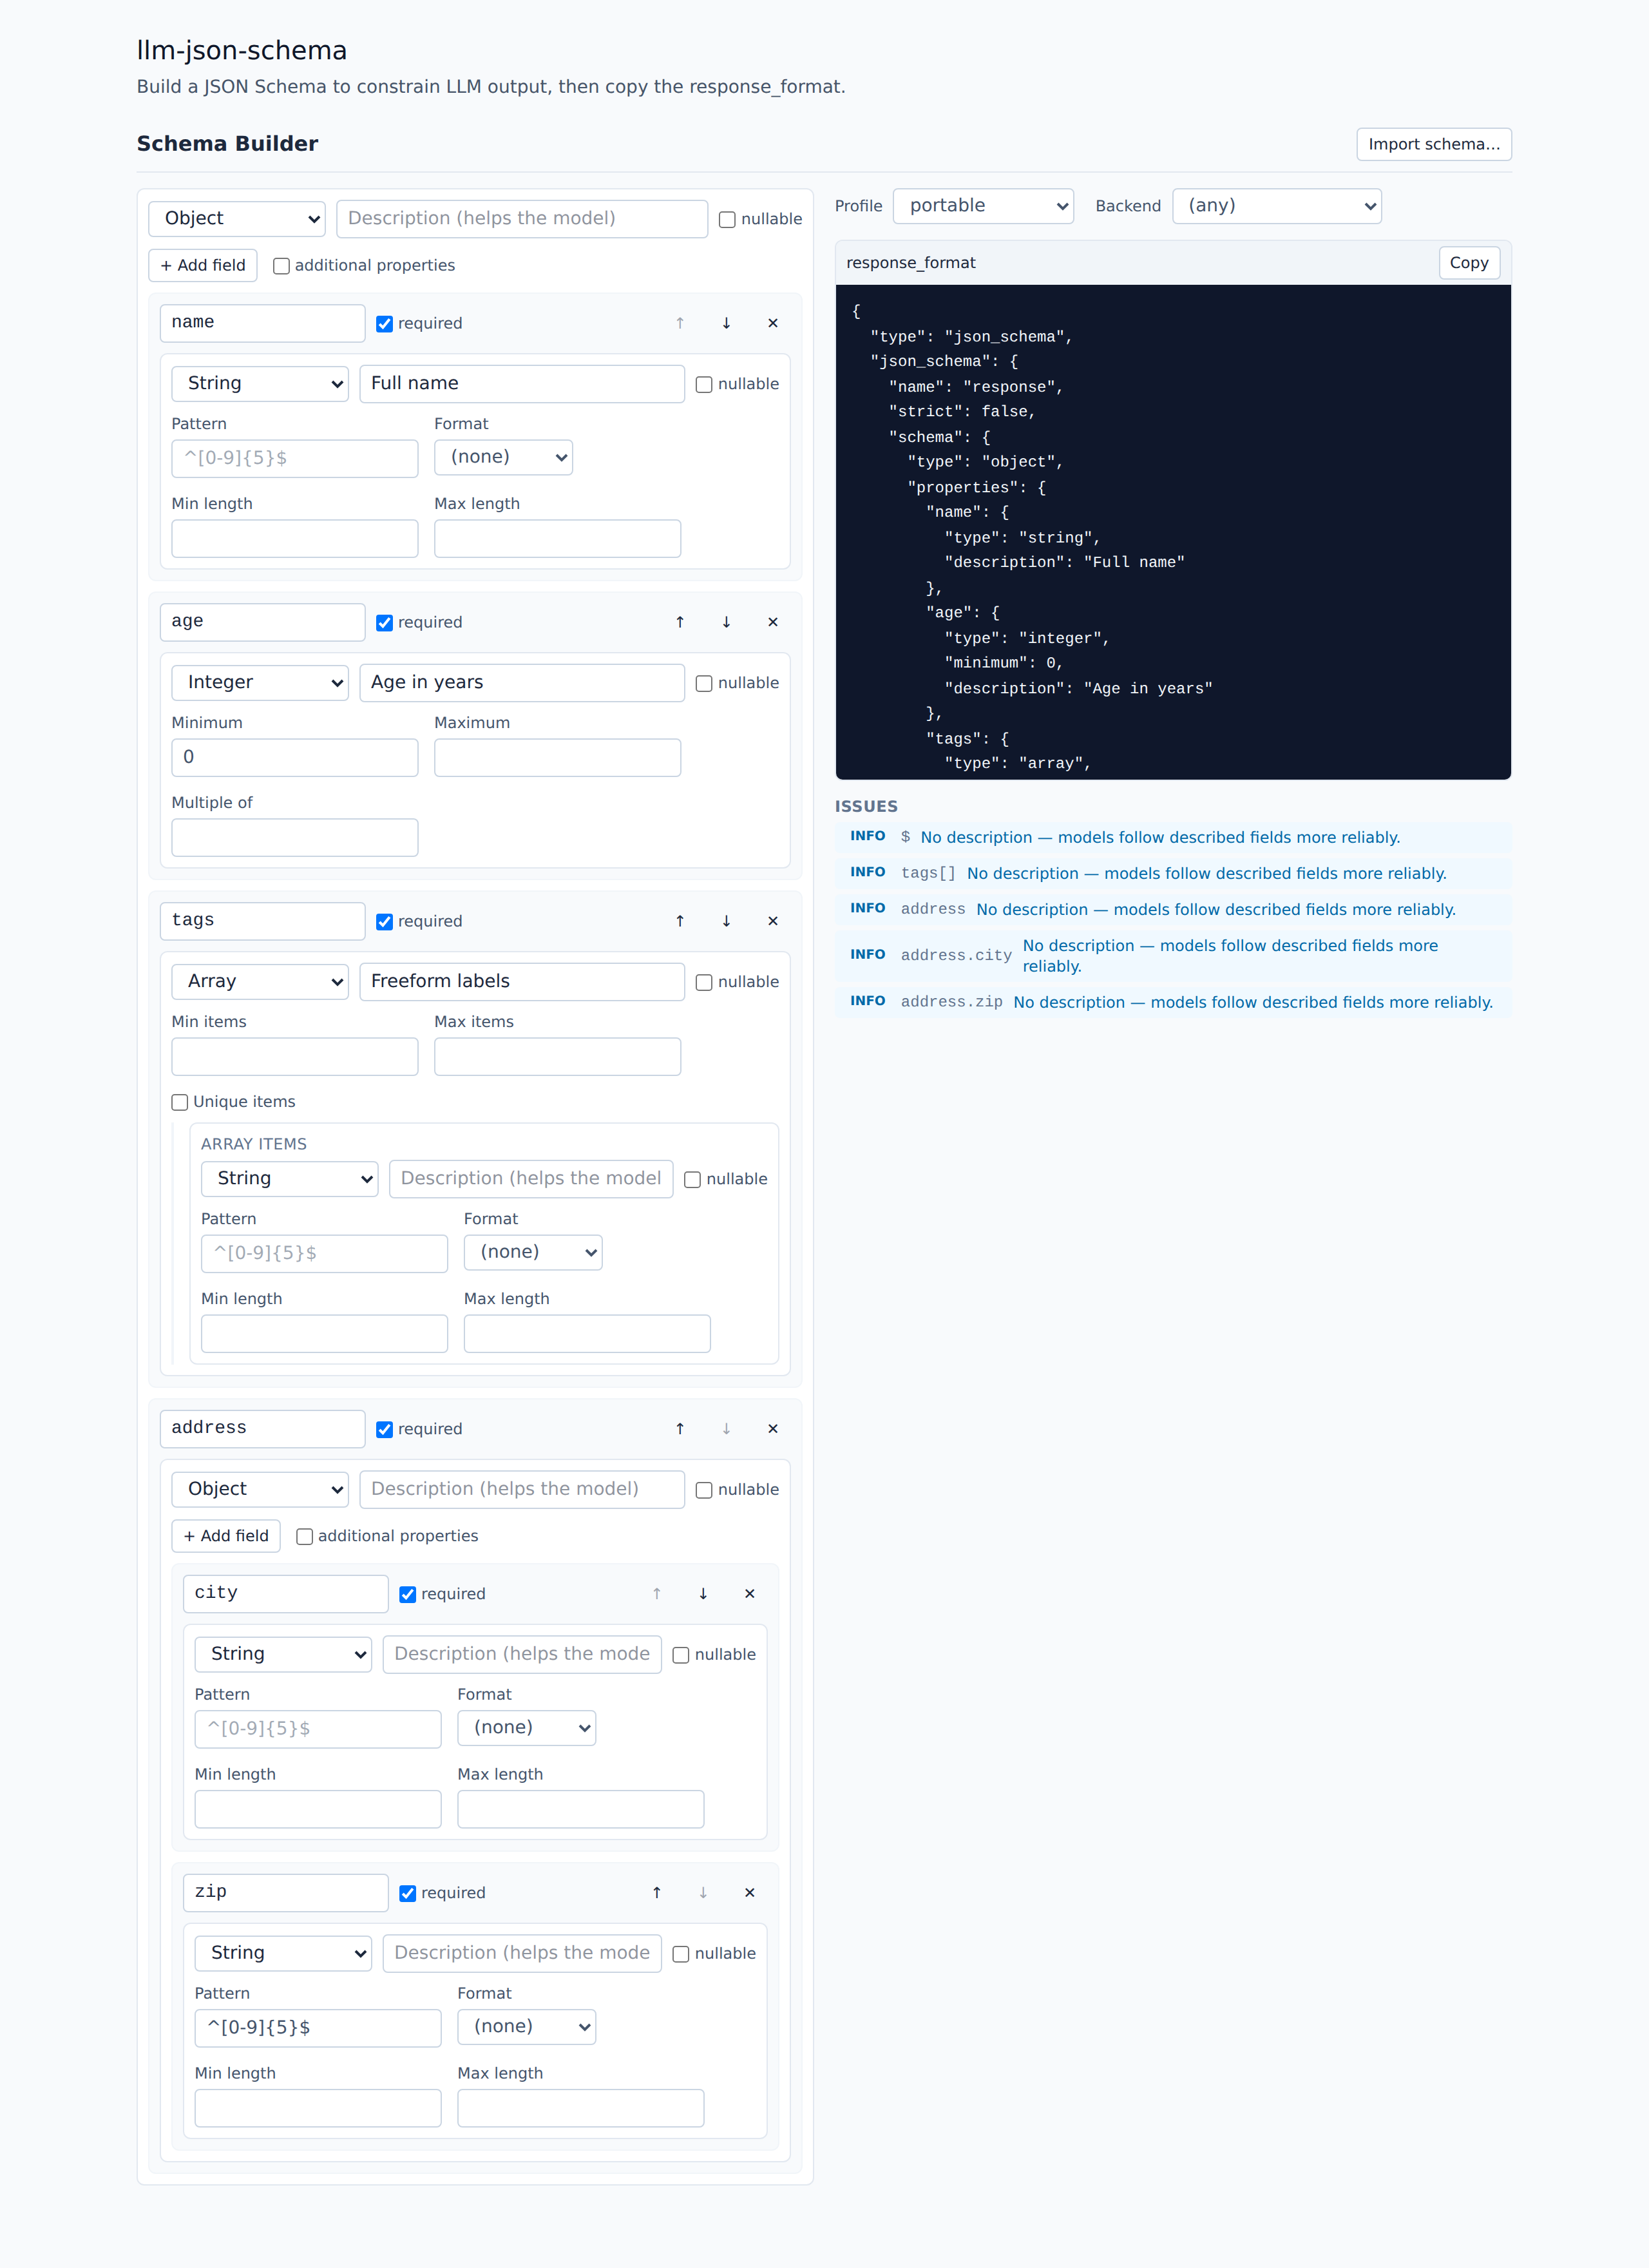
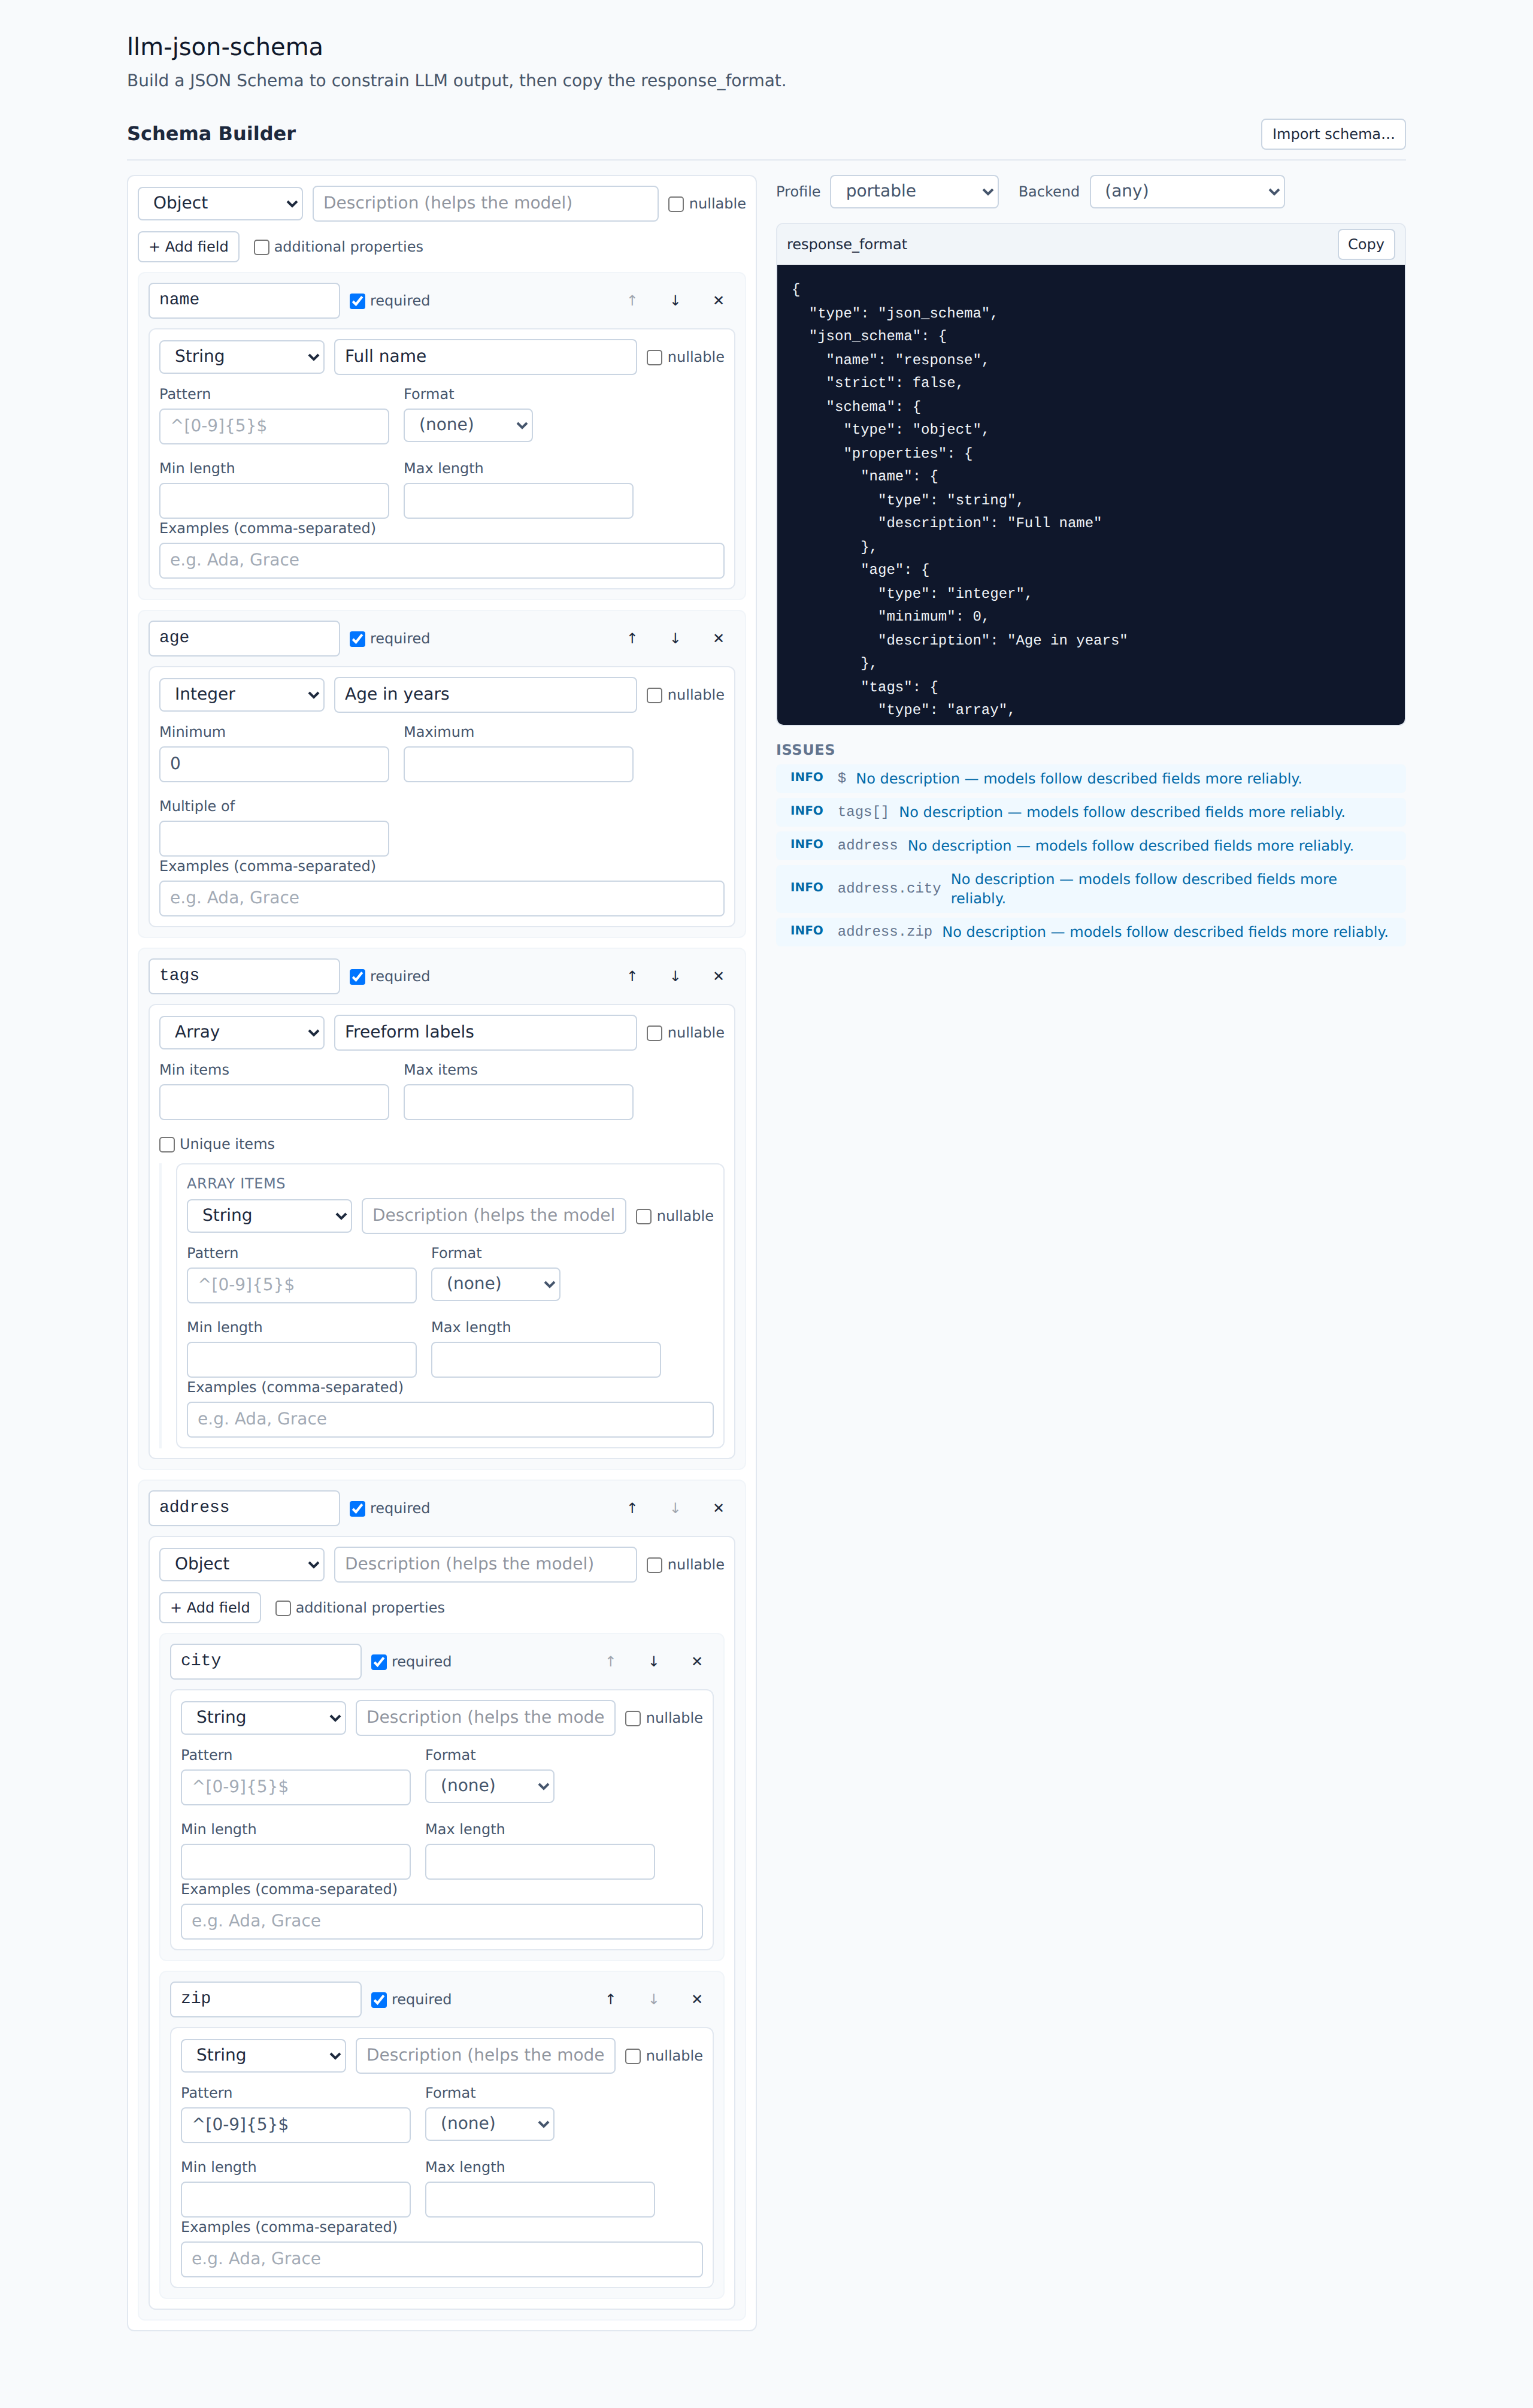
Add example values for schema components
Thread an `examples` annotation (JSON Schema 2020-12) through the pipeline:

- model: `examples?: JsonPrimitive[]` on NodeBase; JsonSchema gains `examples`.
- compile: emits `examples` when non-empty.
- parse: reads `examples` (recognized keyword) back into the model.
- React: `setExamples` reducer action + a kind-aware "Examples
  (comma-separated)" input on scalar nodes (string/number/integer/boolean/enum).
- tests: vitest for compile/omit/round-trip; an e2e check that typing an
  example emits it into the live schema. Screenshot + README updated.

Claude-Session: https://claude.ai/code/session_01Utt2MfTqUzCxAnVSBrpiXM

diff --git a/src/react/components/NodeEditor.tsx b/src/react/components/NodeEditor.tsx
@@ -1,9 +1,38 @@
 import type { Dispatch } from 'react';
-import type { NodeKind, SchemaNode } from '../../core';
+import type { JsonPrimitive, NodeKind, SchemaNode } from '../../core';
 import type { Action } from '../state';
 import { ConstraintsPanel } from './ConstraintsPanel';
 import { ObjectFields } from './ObjectFields';
 import { TypePicker } from './TypePicker';
+
+// Examples are most useful on scalar leaves; object/array/union examples would
+// be whole structures, which a comma-separated field can't express.
+const EXAMPLE_KINDS: ReadonlySet<NodeKind> = new Set<NodeKind>([
+  'string',
+  'number',
+  'integer',
+  'boolean',
+  'enum',
+]);
+
+/** Parse a comma-separated examples field, coercing to the node's value type. */
+function parseExamples(raw: string, kind: NodeKind): JsonPrimitive[] {
+  return raw
+    .split(',')
+    .map((s) => s.trim())
+    .filter((s) => s.length > 0)
+    .map((s): JsonPrimitive => {
+      if (kind === 'number' || kind === 'integer') {
+        const n = Number(s);
+        return Number.isNaN(n) ? s : n;
+      }
+      if (kind === 'boolean') {
+        if (s === 'true') return true;
+        if (s === 'false') return false;
+      }
+      return s;
+    });
+}
 
 /**
  * Recursive editor for a single node. Renders shared metadata + a type picker +
@@ -52,6 +81,24 @@ export function NodeEditor({
       </div>
 
       <ConstraintsPanel node={node} dispatch={dispatch} />
+
+      {EXAMPLE_KINDS.has(node.kind) && (
+        <label className="lss-field">
+          <span>Examples (comma-separated)</span>
+          <input
+            className="lss-input"
+            placeholder="e.g. Ada, Grace"
+            value={(node.examples ?? []).map((v) => String(v)).join(', ')}
+            onChange={(e) =>
+              dispatch({
+                type: 'setExamples',
+                id: node.id,
+                values: parseExamples(e.target.value, node.kind),
+              })
+            }
+          />
+        </label>
+      )}
 
       {node.kind === 'object' && <ObjectFields node={node} dispatch={dispatch} depth={depth} />}
 

diff --git a/tests/examples.test.ts b/tests/examples.test.ts
@@ -1,0 +1,22 @@
+import { describe, expect, it } from 'vitest';
+import { compile, parse, stringNode } from '../src/core';
+import { stripIds } from './helpers';
+
+describe('examples', () => {
+  it('compiles node examples into the JSON Schema `examples` annotation', () => {
+    const { schema } = compile(stringNode({ examples: ['ada', 'grace'] }));
+    expect(schema.examples).toEqual(['ada', 'grace']);
+  });
+
+  it('omits examples when empty', () => {
+    const { schema } = compile(stringNode({ examples: [] }));
+    expect(schema.examples).toBeUndefined();
+  });
+
+  it('round-trips examples through parse', () => {
+    const model = stringNode({ description: 'name', examples: ['ada'] });
+    const { schema } = compile(model, { profile: 'portable' });
+    const { node } = parse(schema);
+    expect(stripIds(node)).toEqual(stripIds(model));
+  });
+});

diff --git a/src/core/parse.ts b/src/core/parse.ts
@@ -7,7 +7,7 @@
  * than silently drop it.
  */
 
-import type { JsonSchema, JsonSchemaType } from './json-schema';
+import type { JsonPrimitive, JsonSchema, JsonSchemaType } from './json-schema';
 import type { ObjectProperty, SchemaNode, StringFormat } from './model';
 import {
   arrayNode,
@@ -34,6 +34,10 @@ interface ParseCtx {
   refStack: Set<string>;
 }
 
+/** Shared node metadata pulled off a schema and threaded into the factories. */
+type Meta = { title?: string; description?: string; examples?: JsonPrimitive[] };
+type Base = Meta & { nullable?: boolean };
+
 /** Keywords we knowingly map; everything else gets reported as unsupported. */
 const KNOWN_KEYWORDS = new Set([
   '$schema',
@@ -42,6 +46,7 @@ const KNOWN_KEYWORDS = new Set([
   'type',
   'title',
   'description',
+  'examples',
   'anyOf',
   'enum',
   'const',
@@ -129,7 +134,11 @@ function parseNode(schema: JsonSchema, ctx: ParseCtx): SchemaNode {
 
   reportUnknownKeywords(schema, ctx);
 
-  const meta = { title: schema.title, description: schema.description };
+  const meta = {
+    title: schema.title,
+    description: schema.description,
+    examples: schema.examples && schema.examples.length > 0 ? schema.examples : undefined,
+  };
 
   // anyOf -> union (unless it is purely a "T | null" widening)
   if (schema.anyOf) {
@@ -170,7 +179,7 @@ function parseNode(schema: JsonSchema, ctx: ParseCtx): SchemaNode {
 function parseAnyOf(
   schema: JsonSchema,
   ctx: ParseCtx,
-  meta: { title?: string; description?: string },
+  meta: Meta,
 ): SchemaNode {
   const branches = schema.anyOf ?? [];
   const nullBranches = branches.filter((b) => b.type === 'null');
@@ -191,7 +200,7 @@ function parseAnyOf(
 
 function parseString(
   schema: JsonSchema,
-  base: { title?: string; description?: string; nullable?: boolean },
+  base: Base,
 ) {
   const format =
     schema.format && STRING_FORMATS.has(schema.format)
@@ -231,7 +240,7 @@ function numberEnum(schema: JsonSchema): number[] | undefined {
 function parseObject(
   schema: JsonSchema,
   ctx: ParseCtx,
-  base: { title?: string; description?: string; nullable?: boolean },
+  base: Base,
 ) {
   const required = new Set(schema.required ?? []);
   // Null-widening is always read as `nullable`; `required` membership is read as
@@ -256,7 +265,7 @@ function parseObject(
 function parseArray(
   schema: JsonSchema,
   ctx: ParseCtx,
-  base: { title?: string; description?: string; nullable?: boolean },
+  base: Base,
 ) {
   const items = schema.items ? parseNode(schema.items, ctx) : stringNode();
   if (!schema.items) ctx.unsupported.add('array without items');

diff --git a/e2e/demo.spec.ts b/e2e/demo.spec.ts
@@ -26,6 +26,21 @@ test.describe('demo playground', () => {
     await expect(output).toContainText('"field"');
   });
 
+  test('adding an example value emits it into the schema', async ({ page }) => {
+    const output = page.getByTestId('output-code');
+    await expect(output).not.toContainText('"examples"');
+
+    // The "name" string field is the first node with an examples input.
+    await page
+      .locator('.lss-editor-pane')
+      .getByPlaceholder('e.g. Ada, Grace')
+      .first()
+      .fill('Ada, Grace');
+
+    await expect(output).toContainText('"examples"');
+    await expect(output).toContainText('"Ada"');
+  });
+
   test('switching to the strict profile sets strict:true', async ({ page }) => {
     const output = page.getByTestId('output-code');
     await expect(output).toContainText('"strict": false');

diff --git a/src/react/state.ts b/src/react/state.ts
@@ -5,7 +5,7 @@
  * derives the JSON Schema and lint issues from the model with useMemo.
  */
 
-import type { NodeKind, ObjectNode, SchemaNode, StringFormat } from '../core';
+import type { JsonPrimitive, NodeKind, ObjectNode, SchemaNode, StringFormat } from '../core';
 import {
   arrayNode,
   booleanNode,
@@ -46,6 +46,7 @@ export type Action =
   | { type: 'patchNode'; id: string; patch: NodePatch }
   | { type: 'changeKind'; id: string; kind: NodeKind }
   | { type: 'setEnumValues'; id: string; values: (string | number)[] }
+  | { type: 'setExamples'; id: string; values: JsonPrimitive[] }
   | { type: 'setConstValue'; id: string; value: string | number | boolean | null }
   | { type: 'addProperty'; objectId: string }
   | { type: 'removeProperty'; objectId: string; index: number }
@@ -70,6 +71,12 @@ export function reducer(state: SchemaNode, action: Action): SchemaNode {
       return mapNode(state, action.id, (node) =>
         node.kind === 'enum' ? { ...node, values: action.values } : node,
       );
+
+    case 'setExamples':
+      return mapNode(state, action.id, (node) => ({
+        ...node,
+        examples: action.values.length > 0 ? action.values : undefined,
+      }));
 
     case 'setConstValue':
       return mapNode(state, action.id, (node) =>

diff --git a/src/core/json-schema.ts b/src/core/json-schema.ts
@@ -25,6 +25,8 @@ export interface JsonSchema {
   type?: JsonSchemaType | JsonSchemaType[];
   title?: string;
   description?: string;
+  /** Annotation values that illustrate valid data (JSON Schema 2020-12). */
+  examples?: JsonPrimitive[];
 
   // composition
   anyOf?: JsonSchema[];

diff --git a/src/core/model.ts b/src/core/model.ts
@@ -25,6 +25,8 @@ export interface NodeBase {
   id: string;
   title?: string;
   description?: string;
+  /** Example values emitted as the JSON Schema `examples` annotation. */
+  examples?: JsonPrimitive[];
   /** When true, the compiled schema also permits `null` for this node. */
   nullable?: boolean;
 }

diff --git a/src/core/compile.ts b/src/core/compile.ts
@@ -83,6 +83,7 @@ function compileNode(node: SchemaNode, ctx: Ctx): JsonSchema {
 function attachMeta(node: SchemaNode, schema: JsonSchema): void {
   if (node.title) schema.title = node.title;
   if (node.description) schema.description = node.description;
+  if (node.examples && node.examples.length > 0) schema.examples = [...node.examples];
 }
 
 /**

diff --git a/README.md b/README.md
@@ -36,7 +36,9 @@ import {
 const model = objectNode({
   title: 'Person',
   properties: [
-    property('name', stringNode({ description: 'Full name' })),
+    // `examples` are emitted as the JSON Schema `examples` annotation and help
+    // the model fill the field:
+    property('name', stringNode({ description: 'Full name', examples: ['Ada Lovelace'] })),
     property('age', integerNode({ description: 'Age in years', minimum: 0 })),
     property('tags', arrayNode(stringNode())),
     // optional field: